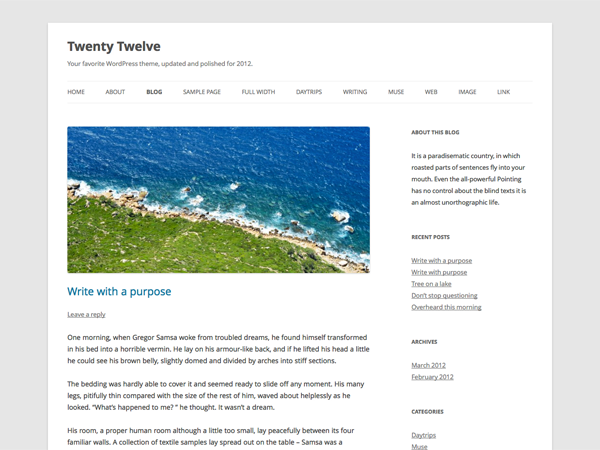
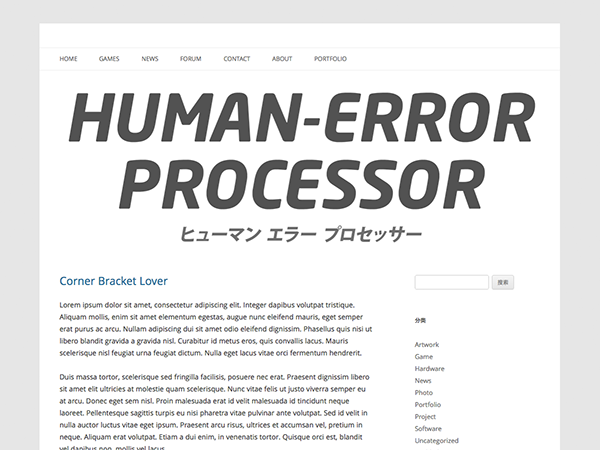
Update screenshot, change theme name

diff --git a/core.css b/core.css
@@ -1,4 +1,4 @@
 /*!
   Kai 12 by Sparanoid
 *//*!
-*/body{font-size:14px;font-size:1rem;font-family:Helvetica,Arial,"Hiragino Sans GB","Microsoft YaHei",sans-serif;text-rendering:optimizeLegibility;color:#444}body.custom-font-enabled{font-family:"Open Sans",Helvetica,Arial,"Hiragino Sans GB","Microsoft YaHei",sans-serif}a{text-decoration:none}body .site{box-shadow:none}img.header-image{box-shadow:none}.site-content article{border-bottom-width:1px;border-bottom-style:solid}.main-navigation{margin-left:-40px;margin-right:-40px}.main-navigation .nav-menu>ul{padding-left:40px;padding-right:40px}img.no-shadow{box-shadow:none}input,textarea{outline:0}input:focus,textarea:focus{border-color:#999}input[type=text]{-webkit-appearance:none}#respond .comment-subscription-form label{display:inline-block}img.latex{box-shadow:none}.gist table{line-height:inherit;margin:0}.well{margin-bottom:20px;padding:19px;min-height:20px;color:#ddd;text-shadow:rgba(0,0,0,0.7) 0 1px 1px;background-color:#2a2a2a;background-image:-webkit-linear-gradient(top,#222,#333);background-image:-moz-linear-gradient(top,#222,#333);background-image:linear-gradient(top,#222,#333);border-radius:4px;box-shadow:inset rgba(0,0,0,0.5) 0 1px 1px}.well a{color:#ddd;border-bottom:1px dotted rgba(255,255,255,0.2)}.well a:hover{color:#fff;border-bottom-color:#fff}
+*/body{font-size:14px;font-size:1rem;font-family:Helvetica,Arial,"Hiragino Sans GB","Microsoft YaHei",sans-serif;text-rendering:optimizeLegibility;color:#444}body.custom-font-enabled{font-family:"Open Sans",Helvetica,Arial,"Hiragino Sans GB","Microsoft YaHei",sans-serif}a{text-decoration:none}body .site{box-shadow:none}.site-header{padding-top:0}.site-header hgroup{padding:24px 0;padding:1.714285714rem 0}img.header-image{box-shadow:none}.main-navigation{margin-top:0;margin-left:-40px;margin-right:-40px}.main-navigation div.nav-menu>ul,.main-navigation ul.nav-menu{padding-left:40px;padding-right:40px}.site-content article{border-bottom-width:1px;border-bottom-style:solid}img.no-shadow{box-shadow:none}input,textarea{outline:0}input:focus,textarea:focus{border-color:#999}input[type=text]{-webkit-appearance:none}#respond .comment-subscription-form label{display:inline-block}img.latex{box-shadow:none}.gist table{line-height:inherit;margin:0}.well{margin-bottom:20px;padding:19px;min-height:20px;color:#ddd;text-shadow:rgba(0,0,0,0.7) 0 1px 1px;background-color:#2a2a2a;background-image:-webkit-linear-gradient(top,#222,#333);background-image:-moz-linear-gradient(top,#222,#333);background-image:linear-gradient(top,#222,#333);border-radius:4px;box-shadow:inset rgba(0,0,0,0.5) 0 1px 1px}.well a{color:#ddd;border-bottom:1px dotted rgba(255,255,255,0.2)}.well a:hover{color:#fff;border-bottom-color:#fff}

diff --git a/core.less b/core.less
@@ -27,23 +27,32 @@ body .site {
   box-shadow: none;
 }
 
+// Unset top padding when there's no text header
+.site-header {
+  padding-top: 0;
+
+  // Re-apply padding for text header here
+  hgroup {
+    padding: 24px 0;
+    padding: 1.714285714rem 0;
+  }
+}
+
 // Remove box shadow for header image
 img.header-image {
   box-shadow: none;
 }
 
-// Double border -> solid border
-.site-content article {
-  border-bottom-width: 1px;
-  border-bottom-style: solid;
-}
-
 // Better navigation width
 .main-navigation {
+  margin-top: 0;
   margin-left: -40px;
   margin-right: -40px;
 
-  .nav-menu > ul {
+
+  div.nav-menu > ul, // Default menu DOM structure
+  ul.nav-menu // Custom menu DOM structure
+  {
     padding-left: 40px;
     padding-right: 40px;
   }
@@ -61,6 +70,12 @@ img.header-image {
   //     }
   //   }
   // }
+}
+
+// Double border -> solid border
+.site-content article {
+  border-bottom-width: 1px;
+  border-bottom-style: solid;
 }
 
 // No shadow class

diff --git a/style.css b/style.css
@@ -4,7 +4,7 @@ Theme URI: http://sparanoid.com/work/kai/
 Author: Sparanoid
 Author URI: http://sparanoid.com/
 Description: The missing child theme of Twenty Twelve, A better interface based on Twenty Twelve, No need to change the default theme, no database option strings will be created. Install and go.
-Version: 1.1.6
+Version: 1.2.0
 License: GNU General Public License
 License URI: http://www.gnu.org/licenses/gpl.html
 Tags: light, gray, white, one-column, two-columns, right-sidebar, flexible-width, custom-background, custom-header, custom-menu, editor-style, featured-images, flexible-header, full-width-template, microformats, post-formats, rtl-language-support, sticky-post, theme-options, translation-ready

diff --git a/functions.php b/functions.php
@@ -1,27 +1,27 @@
 <?php
 /**
- * Twenty Twelve Kai functions and definitions
+ * Kai 12 functions and definitions
  *
  * @package WordPress
- * @subpackage Twenty_Twelve_Kai
- * @since Twenty Twelve Kai 1.0
+ * @subpackage Kai_12
+ * @since Kai 12 1.0
  */
 
 /**
  * Customize footer text
  *
- * @since Twenty Twelve Kai 1.0
+ * @since Kai 12 1.0
  */
 function add_twentytwelve_credits() {
-  echo '<a href="http://postholic.com/rsrc/twentytwelve-kai/">Twenty Twelve Kai</a><span class="sep"> - </span> ';
+  echo '<a href="http://sparanoid.com/work/kai/">Kai 12</a><span class="sep"> - </span> ';
 }
 
 add_action('twentytwelve_credits', 'add_twentytwelve_credits');
 
 /**
- * Override Twenty Twelve stylesheet loading behavier and load Twenty Twelve Kai stylesheet
+ * Override Twenty Twelve stylesheet loading behavier and load Kai 12 stylesheet
  *
- * @since Twenty Twelve Kai 1.1
+ * @since Kai 12 1.1
  */
 function twentytwelve_scripts_styles_override() {
   wp_enqueue_style( 'twentytwelve-style', get_template_directory_uri() . '/style.css' );
@@ -33,7 +33,7 @@ add_action( 'wp_enqueue_scripts', 'twentytwelve_scripts_styles_override' );
 /**
  * Override default excerpt length
  *
- * @since Twenty Twelve Kai 1.1.2
+ * @since Kai 12 1.1.2
  */
 function twentytwelve_kai_custom_excerpt_length( $length ) {
   return 360;
@@ -44,10 +44,10 @@ add_filter( 'excerpt_length', 'twentytwelve_kai_custom_excerpt_length', 999 );
 /**
  * Override default Jetpack Infinite Scroll footer
  *
- * @since Twenty Twelve Kai 1.1.6
+ * @since Kai 12 1.1.6
  */
 function twentytwelve_kai_infinite_scroll_credit() {
-  return '<a href="http://postholic.com/rsrc/twentytwelve-kai/">Twenty Twelve Kai</a>';
+  return '<a href="http://sparanoid.com/work/kai/">Kai 12</a>';
 }
 
 add_filter( 'infinite_scroll_credit', 'twentytwelve_kai_infinite_scroll_credit' );
